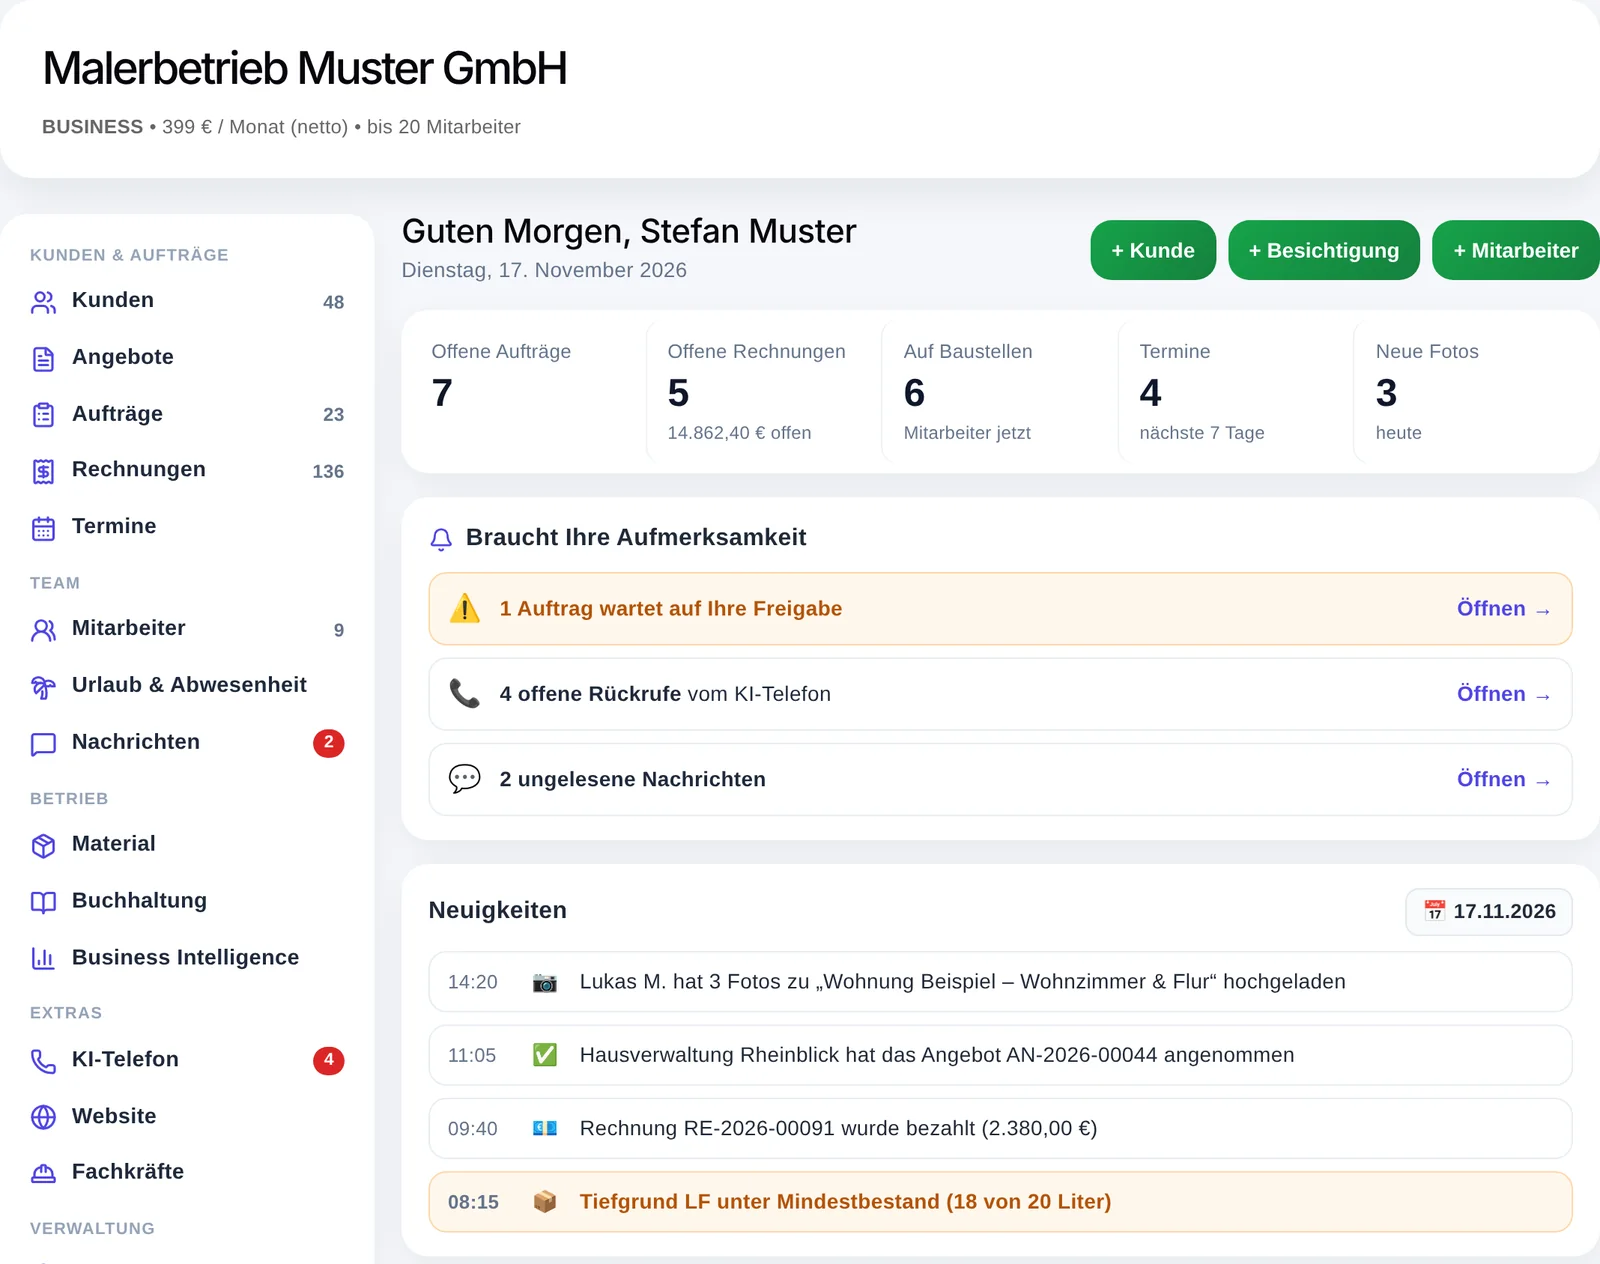
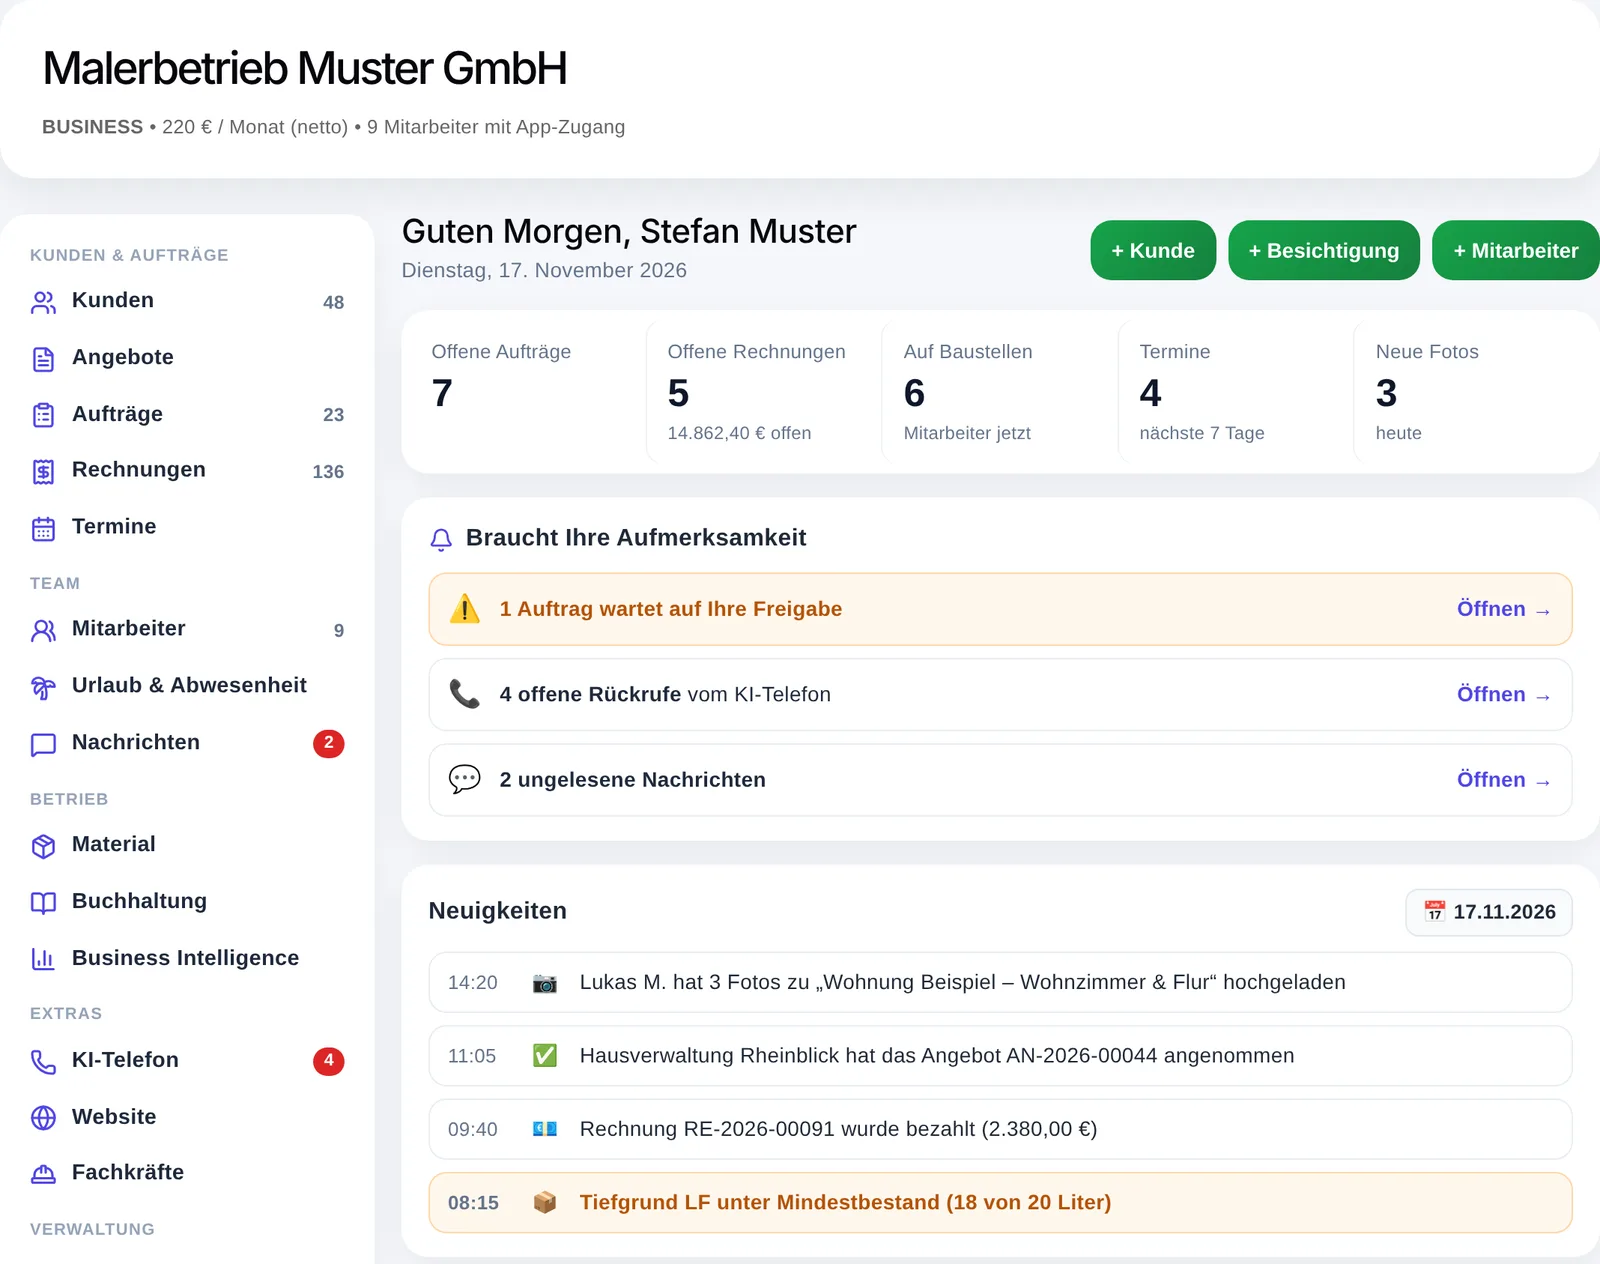
Startseite neuer Look: Glas-Menüleiste, geteilter Titelbereich mit dunkelblauer Fläche und schräger App-Ansicht, Bemaßungslinien, Kachelreihe; Startbild mit neuen Preisen
Claude-Session: https://claude.ai/code/session_012sVSfQzHBPf9WRttgAGmof

diff --git a/frontend/src/pages/LandingPage.css b/frontend/src/pages/LandingPage.css
@@ -1699,3 +1699,154 @@ body:has(.landing-page) { background: #fbf8f3; }
 .lp2-plan-save { margin: 0; font-size: 13px; color: #16a34a; font-weight: 700; min-height: 18px; }
 
 .lp2-plan-terms { margin: 2px 0 14px; font-size: 12px; color: #94a3b8; }
+
+/* =========================================================
+   Startseite – neuer Look (lp3-, 20.11.2026):
+   schwebende Glas-Menüleiste, geteilter Titelbereich mit dunkelblauer Fläche,
+   schräg gestellte App-Ansicht mit Bemaßungslinien, Kachelreihe
+   ========================================================= */
+.landing-page { overflow-x: clip; }
+/* Startseite über die volle Fensterbreite (sonst 1126 px breite Spalte) */
+#root:has(> .landing-page), #ssr:has(> .landing-page) { width: 100%; border-inline: 0; }
+
+/* Menüleiste als schwebende Glasleiste */
+.landing-page > .landing-header {
+  position: relative;
+  z-index: 30;
+  max-width: 1180px;
+  margin: 16px auto 0;
+  padding: 12px 20px;
+  background: rgba(255, 255, 255, 0.78);
+  -webkit-backdrop-filter: blur(14px);
+  backdrop-filter: blur(14px);
+  border: 1px solid rgba(255, 255, 255, 0.9);
+  border-radius: 22px;
+  box-shadow: 0 14px 40px rgba(30, 58, 138, 0.1);
+}
+@media (min-width: 901px) {
+  .landing-page > .landing-header { position: sticky; top: 12px; width: calc(100% - 44px); }
+}
+@media (max-width: 900px) {
+  .landing-page > .landing-header { margin: 10px 12px 0; }
+}
+
+/* Titelbereich: links Sand mit feinem Raster, rechts dunkelblaue Fläche bis zum Rand */
+.landing-hero.landing-hero-premium { position: relative; padding-top: 70px; padding-bottom: 90px; isolation: isolate; }
+.landing-hero.landing-hero-premium::before {
+  content: "";
+  position: absolute;
+  z-index: -2;
+  top: -120px;
+  bottom: 0;
+  left: 54%;
+  right: calc((100% - 100vw) / 2);
+  border-bottom-left-radius: 48px;
+  background:
+    radial-gradient(circle at 30% 45%, rgba(56, 189, 248, 0.28), transparent 42%),
+    linear-gradient(160deg, #1e3a8a 0%, #172554 70%, #0f1d45 100%);
+}
+.landing-hero.landing-hero-premium::after {
+  content: "";
+  position: absolute;
+  z-index: -3;
+  inset: -120px 46% 0 calc((100% - 100vw) / 2);
+  background-image:
+    linear-gradient(rgba(180, 140, 90, 0.09) 1px, transparent 1px),
+    linear-gradient(90deg, rgba(180, 140, 90, 0.09) 1px, transparent 1px);
+  background-size: 44px 44px;
+  -webkit-mask-image: linear-gradient(90deg, #000 0%, transparent 85%);
+  mask-image: linear-gradient(90deg, #000 0%, transparent 85%);
+}
+.landing-hero-premium .landing-hero-content { text-align: left; }
+.landing-hero-premium h1 { color: #0f1d45; font-size: clamp(38px, 4.4vw, 60px); line-height: 1.04; }
+.lp3-serif {
+  display: block;
+  margin-top: 6px;
+  font-family: Georgia, "Times New Roman", serif;
+  font-weight: 400;
+  font-size: 0.9em;
+  letter-spacing: -0.02em;
+  color: #1e3a8a;
+}
+
+/* App-Ansicht in der dunkelblauen Fläche */
+.lp3-visual { padding: 30px 0 30px 34px; perspective: 1800px; }
+.lp3-blueprint { position: absolute; inset: -10px -20px auto -10px; width: calc(100% + 30px); height: auto; color: rgba(186, 230, 253, 0.55); z-index: 0; pointer-events: none; }
+.lp3-tilt {
+  transform: rotateY(-13deg) rotateX(5deg) rotateZ(1deg);
+  transform-origin: 60% 50%;
+  border: 1px solid rgba(255, 255, 255, 0.35);
+  box-shadow: 0 50px 100px rgba(2, 6, 23, 0.55), 0 0 0 8px rgba(255, 255, 255, 0.06);
+}
+.lp3-visual .lp2-hero-phone { right: -6px; bottom: -6px; transform: rotateZ(-4deg); box-shadow: 0 40px 80px rgba(2, 6, 23, 0.6), 0 0 40px rgba(56, 189, 248, 0.25); }
+.lp3-visual .hero-floating-card {
+  background: rgba(15, 29, 69, 0.62);
+  -webkit-backdrop-filter: blur(12px);
+  backdrop-filter: blur(12px);
+  border: 1px solid rgba(255, 255, 255, 0.3);
+  color: #fff;
+  box-shadow: 0 20px 50px rgba(2, 6, 23, 0.35);
+}
+.lp3-visual .hero-floating-card span { color: #bfdbfe; }
+.lp3-visual .card-ai { right: 8px; top: -14px; left: auto; }
+.lp3-visual .card-material { left: -6px; bottom: 10px; }
+@media (prefers-reduced-motion: no-preference) {
+  .lp3-tilt { transition: transform 0.6s ease; }
+  .lp3-visual:hover .lp3-tilt { transform: rotateY(-6deg) rotateX(2deg); }
+}
+
+/* Kachelreihe */
+.lp3-bento { max-width: 1180px; margin: 36px auto 30px; padding: 0 22px; position: relative; z-index: 2; }
+.lp3-bento h2 { text-align: left; margin: 0 0 16px; font-size: 22px; letter-spacing: -0.02em; color: #0f1d45; }
+.lp3-bento h2 span { font-weight: 500; color: #475569; }
+.lp3-bento-grid { display: grid; grid-template-columns: repeat(6, 1fr); gap: 14px; }
+.lp3-tile {
+  display: flex;
+  flex-direction: column;
+  text-decoration: none;
+  color: #0f172a;
+  background: #fff;
+  border: 1px solid #e7dccb;
+  border-radius: 18px;
+  overflow: hidden;
+  box-shadow: 0 12px 30px rgba(120, 90, 50, 0.1);
+  transition: transform 0.2s ease, box-shadow 0.2s ease;
+}
+.lp3-tile:hover, .lp3-tile:focus-visible { transform: translateY(-4px); box-shadow: 0 20px 40px rgba(30, 58, 138, 0.16); }
+.lp3-tile-img {
+  display: block;
+  height: 130px;
+  overflow: hidden;
+  background: linear-gradient(160deg, #eef2ff, #f5ede2);
+  border-bottom: 1px solid #efe6d8;
+}
+.lp3-tile-img img { display: block; width: 100%; height: 100%; object-fit: cover; object-position: left top; }
+.lp3-tile.is-phone .lp3-tile-img { padding: 12px 0 0; display: flex; justify-content: center; }
+.lp3-tile.is-phone .lp3-tile-img img { width: 62%; height: auto; border-radius: 14px 14px 0 0; border: 4px solid #0f172a; border-bottom: 0; object-fit: initial; }
+.lp3-tile b { display: block; padding: 12px 14px 14px; font-size: 15px; line-height: 1.3; }
+.lp3-tile b::after { content: " →"; color: #1d4ed8; }
+
+@media (max-width: 1100px) {
+  .lp3-bento-grid { grid-template-columns: repeat(3, 1fr); }
+}
+@media (max-width: 900px) {
+  /* untereinander: die dunkelblaue Fläche liegt direkt hinter der App-Ansicht */
+  .landing-hero.landing-hero-premium { padding-top: 40px; padding-bottom: 40px; }
+  .landing-hero.landing-hero-premium::before { display: none; }
+  .landing-hero.landing-hero-premium::after { inset: -60px 0 0 0; }
+  .lp3-visual {
+    padding: 44px 34px 40px;
+    border-radius: 32px;
+    background:
+      radial-gradient(circle at 30% 40%, rgba(56, 189, 248, 0.28), transparent 50%),
+      linear-gradient(160deg, #1e3a8a 0%, #172554 70%, #0f1d45 100%);
+  }
+  .lp3-bento { margin-top: 24px; }
+}
+@media (max-width: 700px) {
+  .lp3-visual { padding: 26px 14px 24px; border-radius: 24px; }
+  .lp3-tilt { transform: rotateY(-8deg) rotateX(3deg); }
+  .lp3-bento-grid { grid-template-columns: repeat(2, 1fr); gap: 10px; }
+  .lp3-tile-img { height: 100px; }
+  .lp3-tile b { font-size: 14px; padding: 10px 12px 12px; }
+}

diff --git a/frontend/src/pages/LandingPage.tsx b/frontend/src/pages/LandingPage.tsx
@@ -115,6 +115,16 @@ const features: { title: string; text: string; href?: string }[] = [
 ];
 
 /** Schaufenster: die wichtigsten Bereiche mit echten Ansichten aus der App (Beispieldaten) */
+// Kacheln unter dem Titel – jede führt zur passenden Funktionsseite
+const bento: { title: string; href: string; img: string; phone?: boolean }[] = [
+  { title: "Aufmaß & Angebote", href: "/aufmass-angebote", img: "/images/app/aufmass.webp" },
+  { title: "Aufträge & Planung", href: "/auftragsverwaltung", img: "/images/app/chef-startseite.webp" },
+  { title: "Materialverwaltung", href: "/materialverwaltung", img: "/images/app/material.webp" },
+  { title: "Mobil auf der Baustelle", href: "/zeiterfassung", img: "/images/app/mitarbeiter-handy.webp", phone: true },
+  { title: "Kundenportal", href: "/kundenportal", img: "/images/app/kundenportal-handy.webp", phone: true },
+  { title: "Rechnungen & E-Rechnung", href: "/rechnungen", img: "/images/app/rechnungen.webp" },
+];
+
 const showcase: { label: string; title: string; text: string; points: string[]; img: string; w: number; h: number; alt: string; href: string; phone?: boolean }[] = [
   {
     label: "Aufmaß & Angebot",
@@ -363,7 +373,9 @@ export default function LandingPage({ onLogin, onRegister, onOpenImpressum, onOp
           <div className="landing-hero-content">
             <p className="landing-badge">Für Malerbetriebe in Deutschland, Österreich und der Schweiz</p>
 
-            <h1>Die Software für Malerbetriebe – vom Aufmaß bis zur E-Rechnung.</h1>
+            <h1>
+              Die Software für Malerbetriebe – <span className="lp3-serif">vom Aufmaß bis zur E‑Rechnung.</span>
+            </h1>
 
             <p className="landing-hero-text">
               Aufmaß, Angebote, Aufträge, Zeiterfassung, Material, Rechnungen und Buchhaltung in einer App. Weniger Büro am Abend, mehr
@@ -388,8 +400,24 @@ export default function LandingPage({ onLogin, onRegister, onOpenImpressum, onOp
             </div>
           </div>
 
-          <div className="landing-hero-visual lp2-hero-visual">
-            <figure className="lp2-browser">
+          <div className="landing-hero-visual lp2-hero-visual lp3-visual">
+            {/* Bemaßungslinien wie beim Aufmaß – nur Dekoration */}
+            <svg className="lp3-blueprint" viewBox="0 0 600 520" aria-hidden="true" focusable="false">
+              <g fill="none" stroke="currentColor" strokeWidth="1">
+                <path d="M60 70 H540" />
+                <path d="M60 62 V78 M540 62 V78" />
+                <path d="M572 110 V430" />
+                <path d="M564 110 H580 M564 430 H580" />
+                <path d="M90 470 L250 400 L470 400 L540 440" strokeDasharray="4 6" />
+                <path d="M30 140 V360" strokeDasharray="2 6" />
+              </g>
+              <g fill="currentColor" fontSize="12" fontFamily="ui-monospace, monospace">
+                <text x="282" y="60">5,20 m</text>
+                <text x="582" y="275" transform="rotate(90 582 275)">4,10 m</text>
+                <text x="300" y="392">2,55 m</text>
+              </g>
+            </svg>
+            <figure className="lp2-browser lp3-tilt">
               <div className="lp2-browser-bar" aria-hidden="true">
                 <i />
                 <i />
@@ -421,15 +449,21 @@ export default function LandingPage({ onLogin, onRegister, onOpenImpressum, onOp
           </div>
         </section>
 
-        <section className="landing-logo-strip" aria-label="Bereiche">
-          <span>Aufmaß</span>
-          <span>Angebote</span>
-          <span>Aufträge</span>
-          <span>Zeiten</span>
-          <span>Material</span>
-          <span>E-Rechnung</span>
-          <span>Buchhaltung</span>
-          <span>Kundenportal</span>
+        {/* ---------- Kacheln: eine Plattform statt Insellösungen ---------- */}
+        <section className="lp3-bento" aria-labelledby="lp3-bento-title">
+          <h2 id="lp3-bento-title">
+            Eine Plattform <span>statt vieler Insellösungen</span>
+          </h2>
+          <div className="lp3-bento-grid">
+            {bento.map((b) => (
+              <a key={b.title} href={b.href} className={`lp3-tile ${b.phone ? "is-phone" : ""}`}>
+                <span className="lp3-tile-img">
+                  <img src={b.img} alt="" loading="lazy" decoding="async" />
+                </span>
+                <b>{b.title}</b>
+              </a>
+            ))}
+          </div>
         </section>
 
         {/* ---------- KI ---------- */}
